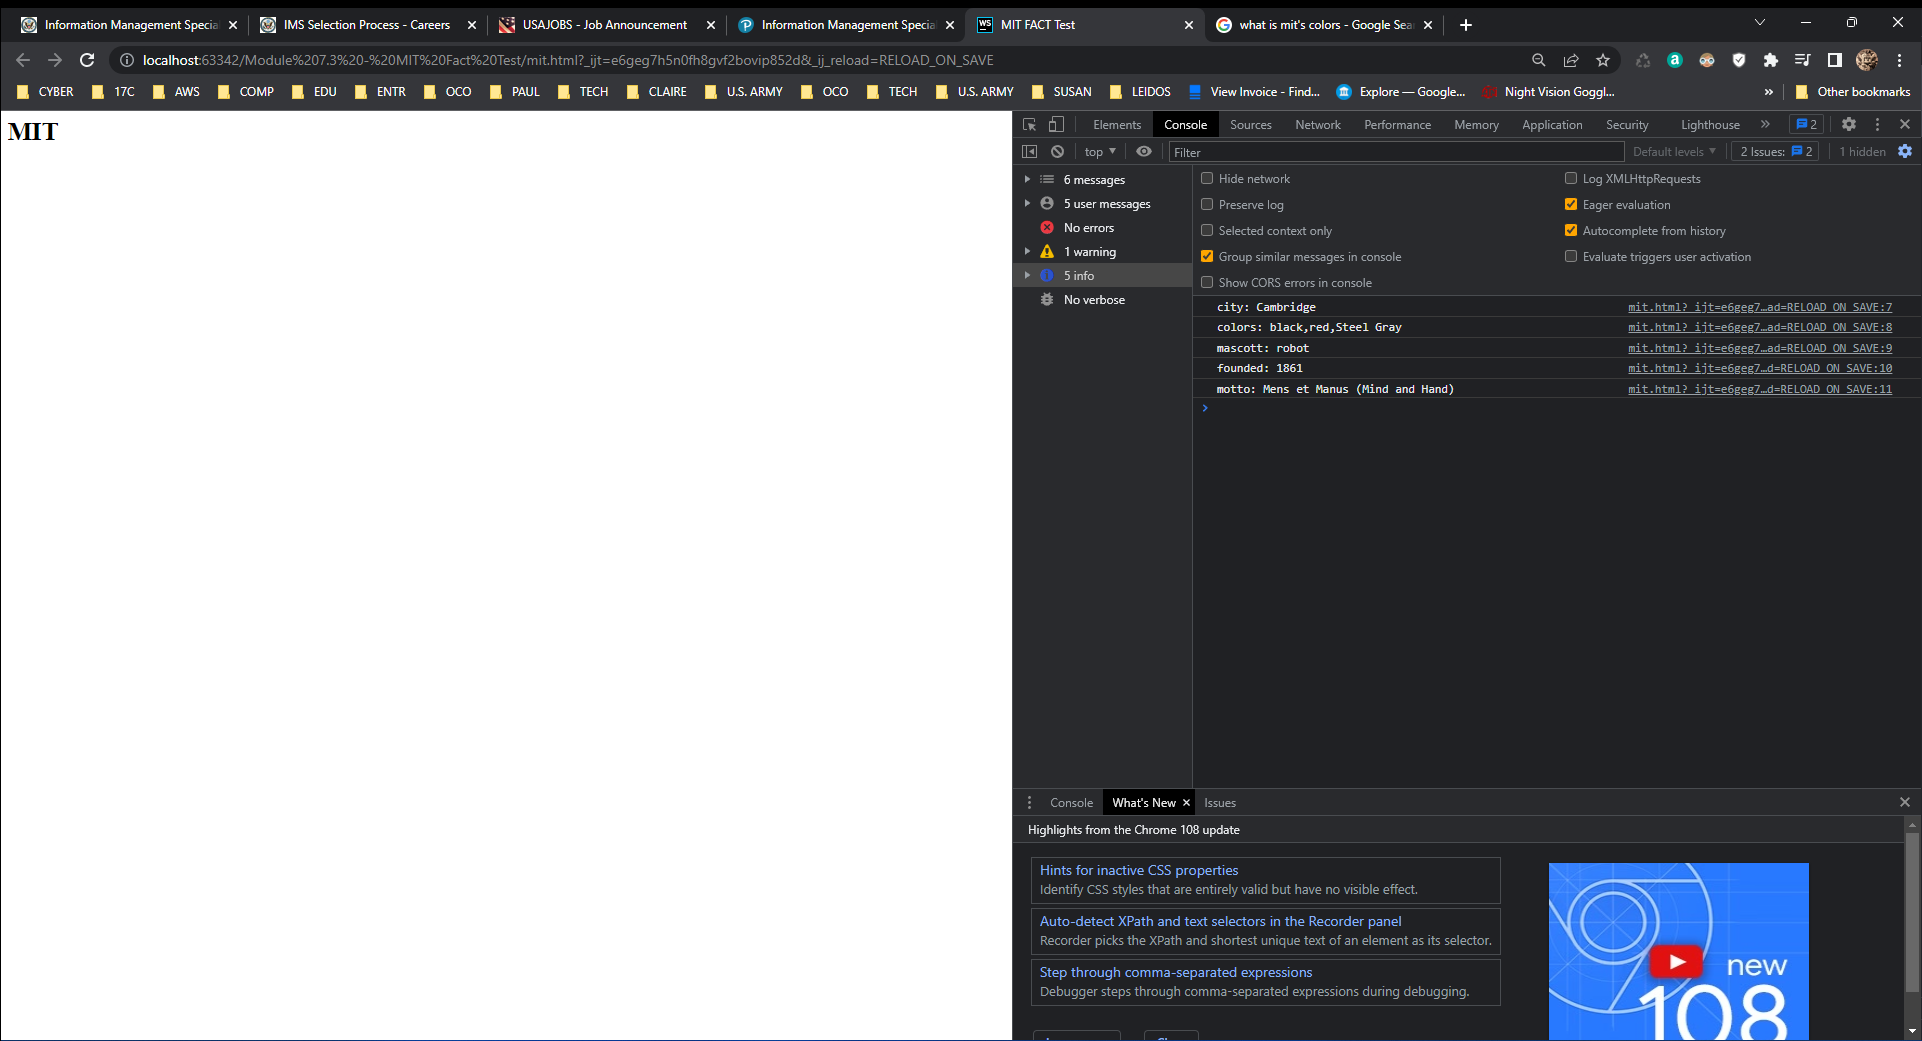
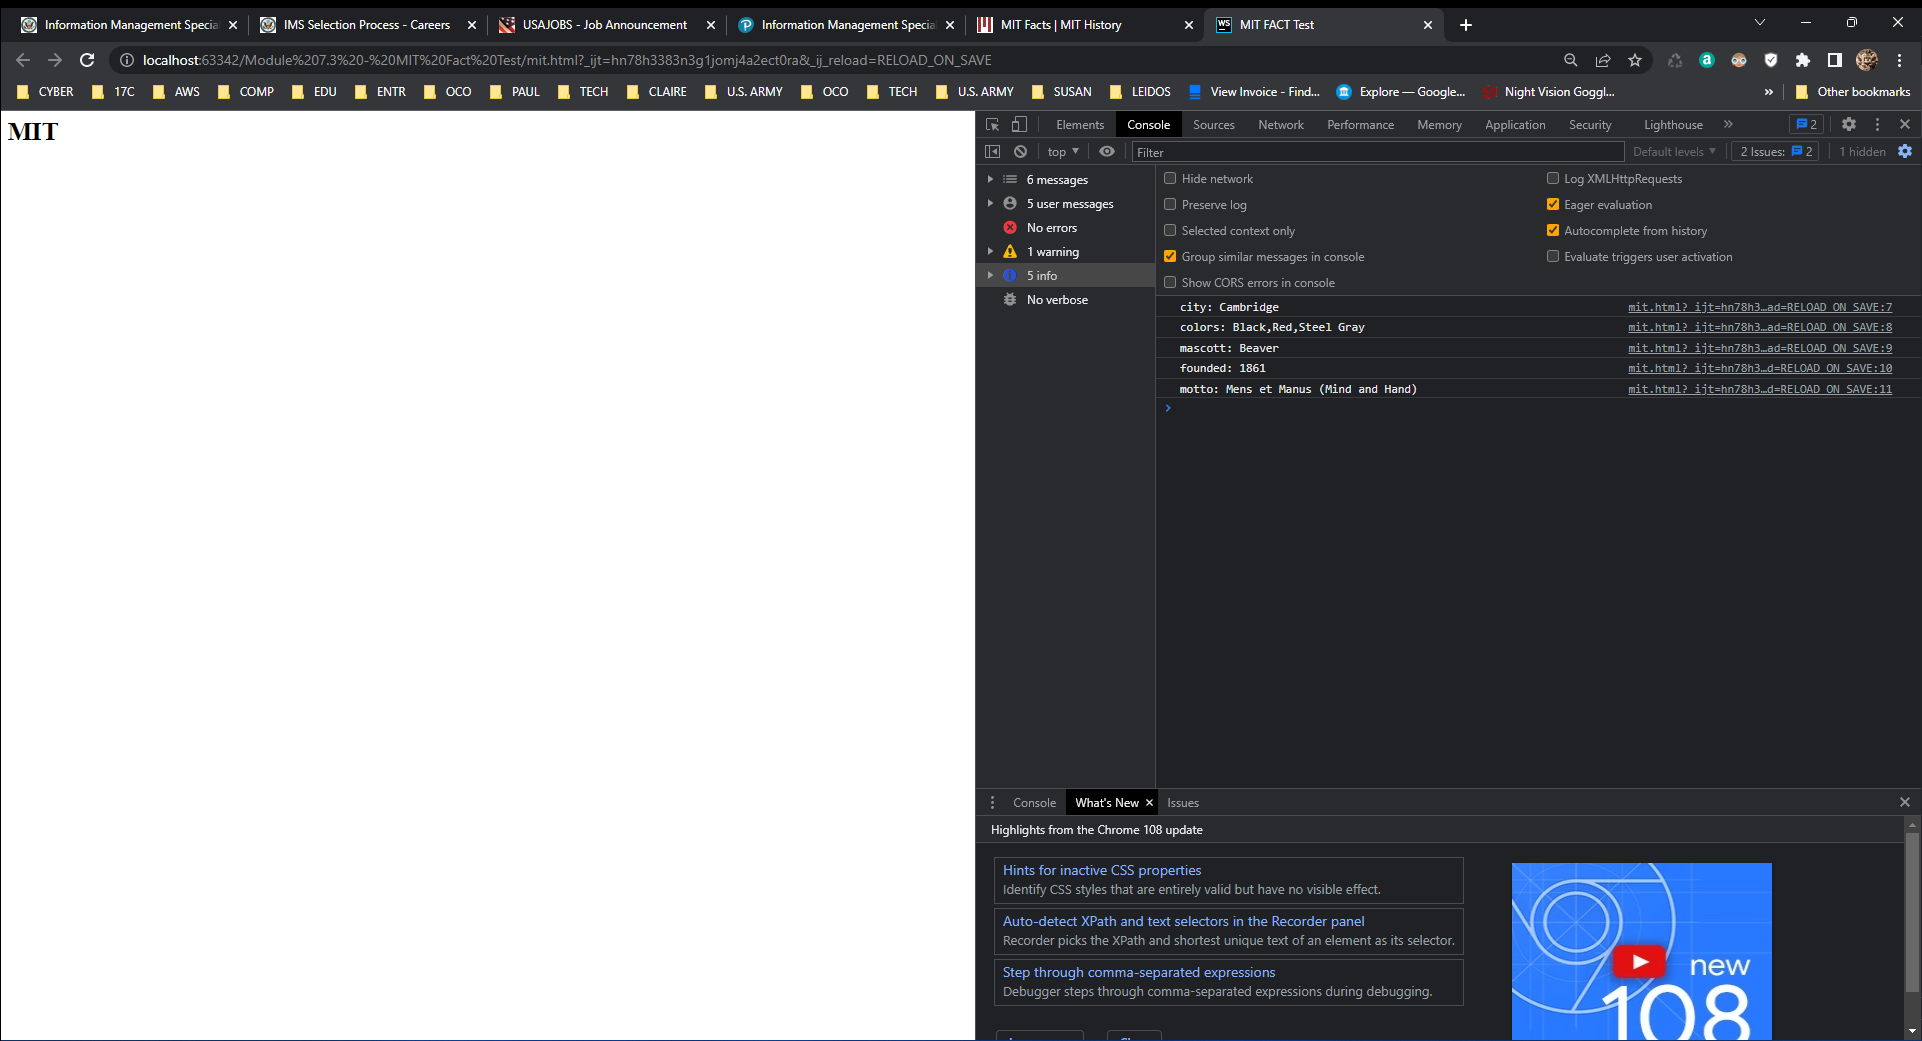
Added ScreenShot Photos & Corrected Code

diff --git a/mit.js b/mit.js
@@ -1,7 +1,7 @@
 var mit = {
     city: 'Cambridge',
-    colors: ['black', 'red', 'Steel Gray'],
-    mascot: "robot",
+    colors: ['Black', 'Red', 'Steel Gray'],
+    mascot: "Beaver",
     founded: 1861,
     motto: 'Mens et Manus (Mind and Hand)',
 };

diff --git a/README.md b/README.md
@@ -42,8 +42,8 @@ After Correcting ```mit.js```
 ```javascript
 var mit = {
     city: 'Cambridge',
-    colors: ['black', 'red', 'Steel Gray'],
-    mascot: "robot",
+    colors: ['Black', 'Red', 'Steel Gray'],
+    mascot: "Beaver",
     founded: 1861,
     motto: 'Mens et Manus (Mind and Hand)',
 };
